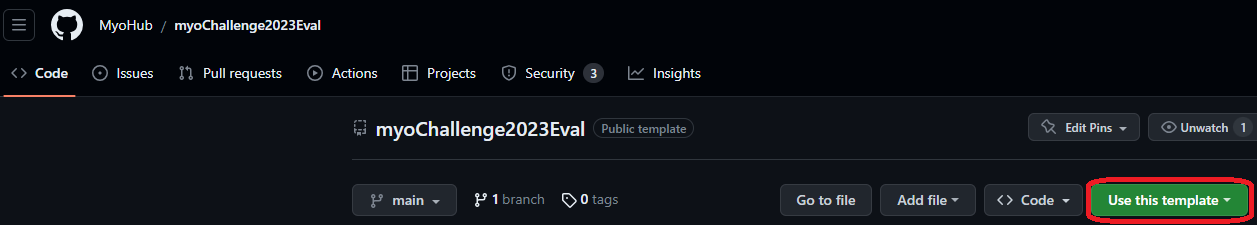
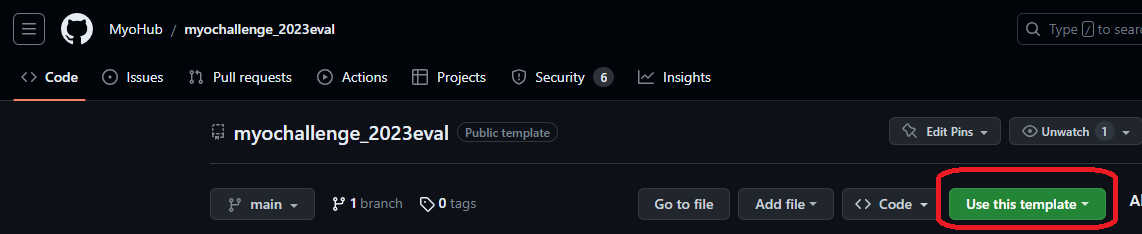
Update readme with new repo name

diff --git a/tutorials/GHaction_Submission.md b/tutorials/GHaction_Submission.md
@@ -16,7 +16,7 @@ so you don't have to mess around with docker containers.
 ![MyoChal_EvalAI_setup](../images/MyoChal_EvalAI_setup.png)
 
 ### Clone this repo
-In order for your code to stay private, you can [create a repository from our template](https://github.com/new?template_name=myoChallenge2023Eval&template_owner=MyoHub) by looking at the top of this repository and click on "Use this template" -> "Create your own repository" and then choosing the private option.
+In order for your code to stay private, you can [create a repository from our template](https://github.com/new?template_name=myochallenge_2023eval&template_owner=MyoHub) by looking at the top of this repository and click on "Use this template" -> "Create your own repository" and then choosing the private option.
 
   | ![MyoChal_CreateTemplate](../images/MyoChal_CreateTemplate.png) |
   |-|
@@ -30,7 +30,7 @@ Navigate to the new personal github repository that you created from the templat
   |-|-|
   Navigate to repository secret page | Enter your EvalAI access token here
 
-- click on "Actions" in the top-bar of your repo, and you will see the github-actions we prepared. You can use "Docker Build Test" [Loco](https://github.com/MyoHub/myoChallenge2023Eval/actions/workflows/docker-build_loco.yml) or [Mani](https://github.com/MyoHub/myoChallenge2023Eval/actions/workflows/docker-build_mani.yml) to test building docker containers for random agents.
+- click on "Actions" in the top-bar of your repo, and you will see the github-actions we prepared. You can use "Docker Build Test" [Loco](https://github.com/MyoHub/myochallenge_2023eval/actions/workflows/docker-build_loco.yml) or [Mani](https://github.com/MyoHub/myochallenge_2023eval/actions/workflows/docker-build_mani.yml) to test building docker containers for random agents.
 
   | ![MyoChal_Submit_Workflow_1](../images/MyoChal_Submit_Workflow_1.png) |
   |-|
@@ -38,6 +38,6 @@ Navigate to the new personal github repository that you created from the templat
 
 - If you want to submit something, you can use "Submission Loco Deprl" or similar for Mani and for random agents. Try clicking on one of them and then on "Run workflow" on the right. This should show up as a private submission in your evalai leaderboard.
 
-You can then edit the prepared files for [deprl](https://github.com/MyoHub/myoChallenge2023Eval/blob/main/agent/agent_loco_deprl.py) or [random](https://github.com/MyoHub/myoChallenge2023Eval/blob/main/agent/agent_loco_random.py) agents and use them to import your own policies. They also contain other helpful functions.
+You can then edit the prepared files for [deprl](https://github.com/MyoHub/myochallenge_2023eval/blob/main/agent/agent_loco_deprl.py) or [random](https://github.com/MyoHub/myochallenge_2023eval/blob/main/agent/agent_loco_random.py) agents and use them to import your own policies. They also contain other helpful functions.
 
 Pushing your changes and policies to the `main` branch will allow to submit them via the github actions. For local development, we recommend to follow the DIY submission [instructions](./DIY_Submission.md).

diff --git a/tutorials/DIY_Submission.md b/tutorials/DIY_Submission.md
@@ -40,9 +40,9 @@ evalai challenges --participant
 Clone this repository to have access to all needed files:
 ```bash
 # Clone the repository
-git clone https://github.com/MyoHub/myoChallenge2023Eval.git
+git clone https://github.com/MyoHub/myochallenge_2023eval.git
 # Enter into the root path
-cd myoChallenge2023Eval
+cd myochallenge_2023eval
 # Install dependencies and tests
 source ./setup.sh
 ```
@@ -64,7 +64,7 @@ We provide 4 templates to describe how the agent will communicate with the envir
 
 The random templates are very simple and can be used to understand the general structure of the submission template, as well as test if everything works correctly.
 We also provide deprl-templates, which show you how the submission for an RL learning framework would look like. 
-In order to use the submission template, you will need to (A) [import a policy](https://github.com/MyoHub/myoChallenge2023Eval/blob/main/agent/agent_loco_deprl.py#L59) and (B) obtain [an action from each observation](https://github.com/MyoHub/myoChallenge2023Eval/blob/main/agent/agent_loco_deprl.py#L80). Take a look at the [observation function](https://github.com/MyoHub/myoChallenge2023Eval/blob/main/agent/agent_loco_deprl.py#L8). This function can be helpful to reconstruct the observation vector you used during training from the `obs_dict` provided during evaluation. You cannot use any other state information for the submission!
+In order to use the submission template, you will need to (A) [import a policy](https://github.com/MyoHub/myochallenge_2023eval/blob/main/agent/agent_loco_deprl.py#L59) and (B) obtain [an action from each observation](https://github.com/MyoHub/myochallenge_2023eval/blob/main/agent/agent_loco_deprl.py#L80). Take a look at the [observation function](https://github.com/MyoHub/myochallenge_2023eval/blob/main/agent/agent_loco_deprl.py#L8). This function can be helpful to reconstruct the observation vector you used during training from the `obs_dict` provided during evaluation. You cannot use any other state information for the submission!
 
 When you customize these files to submit with your preferred learning framework, is important to add the dependencies that you need to the appropriate requirements files: Either  [agent_random.txt](../requirements/agent_random.txt) or [agent_deprl.txt](../requirements/agent_deprl.txt), depending on which template you use. These dependencies are automatically installed when building the docker container.
 Make sure none of your dependencies defaults to GPU-usage, as the containers are evaluated on CPU-only instances.
